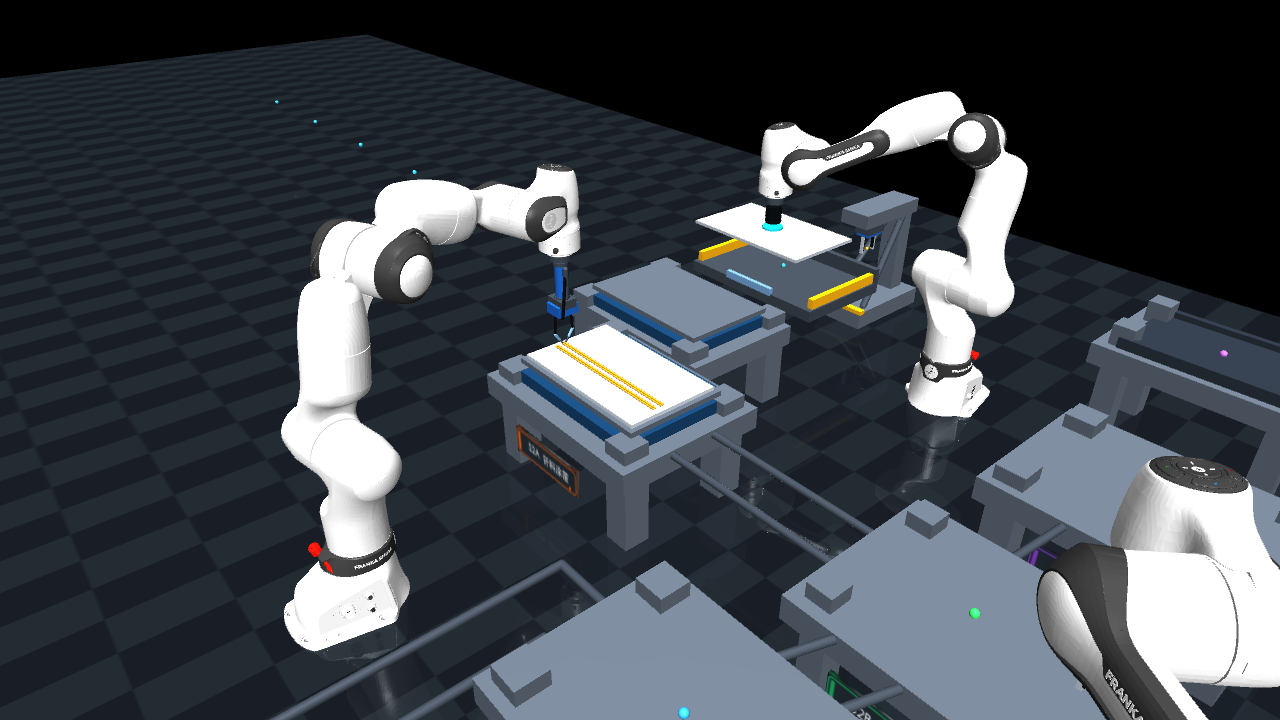
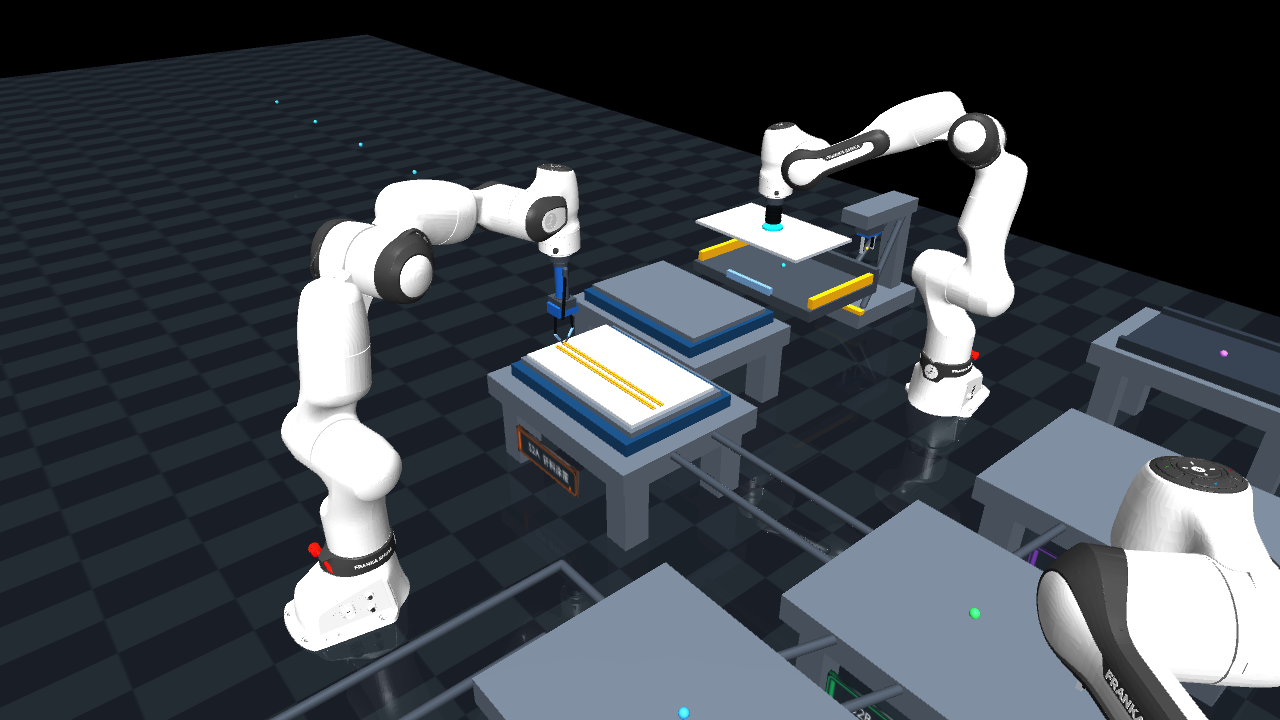
docs: improve README navigation and visual guide

diff --git a/docs/architecture/项目目录说明.md b/docs/architecture/项目目录说明.md
@@ -130,13 +130,18 @@ benchmarks/
 
 ## 推荐阅读顺序
 
-1. `README.md`
-2. `docs/README.md`
-3. `brazing_sim/paths.py`
-4. `brazing_sim/manufacturing_runtime.py`
-5. `brazing_sim/planning/task_graph_builder.py`
-6. `brazing_sim/dual_line/runtime.py`
-7. `brazing_sim/execution/async_line_skills.py`
-8. `scenes/production/brazing_line.xml` / `brazing_line_v2.xml`
-9. `benchmarks/results/2026-07-29-v1-v2/comparison.md`
-10. `tests/`
+以下内容按“先会用 → 再理解 → 最后验证”的顺序排列，均可直接点击：
+
+1. [项目首页与快速启动](../../README.md)
+2. [文档总导航](../README.md)
+3. [项目路径权威入口 `brazing_sim/paths.py`](../../brazing_sim/paths.py)
+4. [制造运行时 `brazing_sim/manufacturing_runtime.py`](../../brazing_sim/manufacturing_runtime.py)
+5. [任务图构建器 `planning/task_graph_builder.py`](../../brazing_sim/planning/task_graph_builder.py)
+6. [V2 异步运行时 `dual_line/runtime.py`](../../brazing_sim/dual_line/runtime.py)
+7. [多机械臂物理技能 `execution/async_line_skills.py`](../../brazing_sim/execution/async_line_skills.py)
+8. MuJoCo 场景：[V1 `brazing_line.xml`](../../scenes/production/brazing_line.xml) /
+   [V2 `brazing_line_v2.xml`](../../scenes/production/brazing_line_v2.xml)
+9. [V1/V2 实测效率与复现报告](../../benchmarks/results/2026-07-29-v1-v2/comparison.md)
+10. [自动化测试入口](../../tests/)
+
+[← 返回 README 首页](../../README.md) · [返回文档导航](../README.md)

diff --git a/docs/README.md b/docs/README.md
@@ -2,6 +2,19 @@
 
 项目文档分为“当前有效说明”和“历史追溯材料”。首次阅读请优先查看当前说明。
 
+> [← 返回项目首页](../README.md) ·
+> [快速开始](../README.md#quick-start) ·
+> [源码导航](../README.md#documentation)
+
+## 按读者选择
+
+| 读者 | 推荐路线 |
+|---|---|
+| 第一次使用 | [项目首页](../README.md) → [快速开始](../README.md#quick-start) → [版本选择](../README.md#version-choice) |
+| 准备二次开发 | [项目目录说明](architecture/项目目录说明.md) → [领域上下文](../CONTEXT.md) → [V2 规格](specs/v2-dual-install-line.md) |
+| 关注实验数据 | [V1/V2 实测效率报告](../benchmarks/results/2026-07-29-v1-v2/comparison.md) → [`benchmarks/`](../benchmarks/) |
+| 修改 MuJoCo 场景 | [视觉模型与资产说明](architecture/视觉模型与资产说明.md) → [V1 XML](../scenes/production/brazing_line.xml) / [V2 XML](../scenes/production/brazing_line_v2.xml) |
+
 ## 当前有效说明
 
 - [项目目录说明](architecture/项目目录说明.md)
